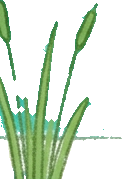
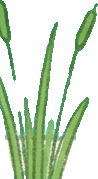
Avsnitt 004: vit klistermärkeskant (kor.kant) på det som är urklippt ur målade plattor: skylten, vassen, äppelträdet, åkern, blommorna och dammen; vassen urklippt utan vatten, vattenlinje och smulor

diff --git a/avsnitt/004-bussen-badar/scener/korscen-1/kor.js b/avsnitt/004-bussen-badar/scener/korscen-1/kor.js
@@ -5,7 +5,7 @@
 (() => {
 const { el, bild, lerp, mjuk, del, hopp, snurr, blink, vinka, BEAT, BEAT0 } = kit;
 const KLIPP = new URL('klipp/', document.currentScript.src).href, PX = 1080 / 768;
-const MATT = { skylt: [94, 271], vass: [122, 179], sjo: [682, 181] };   // klipp/ (klipp.py), i plattpixlar
+const MATT = { skylt: [94, 271], vass: [98, 179], sjo: [682, 181] };   // klipp/ (klipp.py), i plattpixlar
 const BUSS = { x: 900, y: 978 };                 // bussens fötter, som i 003
 const STORLEK = 1.2;                             // bussen i körbilden är 20 % större än i 003 (Sanna: "bus could be a bit bigger")
 // Bussen i körbilden, STORLEK gånger standardhöjden. Kompisarna i fönstren, dörren och hjulen följer med (allt räknas i bussens ruta).
@@ -39,9 +39,23 @@ function sol(parent = kit.lager.plate, fore = null) {
 // sek = sångtid, så att solen står likadant på båda sidor om klippen.
 const soler = [];
 const solDans = (sek, amp = 1) => soler.forEach(s => s.dansa(sek, 0.4 * amp));
-// En sak ur klipp/ med foten på y, k skalar. s.pa(x) sätter mitten i x.
+// Vit klistermärkeskant runt en sak som är urklippt ur en målad platta (de har ingen egen, till skillnad från vagen-saker),
+// så att allt vid vägen har samma kant (Sanna 2026-11-05). Ger g tillbaka.
+function kant(g) {
+  const svg = g.ownerSVGElement;
+  if (!svg.querySelector('#klisterkant')) svg.querySelector('defs').insertAdjacentHTML('beforeend', `
+    <filter id="klisterkant" x="-15%" y="-15%" width="130%" height="130%">
+      <feMorphology in="SourceAlpha" operator="dilate" radius="5" result="d"/>
+      <feGaussianBlur in="d" stdDeviation="0.7" result="b"/>
+      <feFlood flood-color="#fff"/><feComposite in2="b" operator="in" result="vit"/>
+      <feMerge><feMergeNode in="vit"/><feMergeNode in="SourceGraphic"/></feMerge>
+    </filter>`);
+  g.setAttribute('filter', 'url(#klisterkant)');
+  return g;
+}
+// En sak ur klipp/ med foten på y, k skalar, med vit kant. s.pa(x) sätter mitten i x.
 function sak(namn, y, k = 1, parent = saker) {
-  const [w, h] = MATT[namn].map(v => v * PX * k), g = el('g', {}, parent);
+  const [w, h] = MATT[namn].map(v => v * PX * k), g = kant(el('g', {}, parent));
   bild(KLIPP + namn + '.png', g, { width: w, height: h, preserveAspectRatio: 'none' });
   return { g, w, h, pa: x => g.setAttribute('transform', `translate(${x - w / 2} ${y - h})`) };
 }
@@ -245,6 +259,6 @@ function staende(kam, t, backe, fokus = []) {
   return [x, 540, 1];
 }
 
-window.kor = { BUSS, staende, STORLEK, nyBuss, narbild, V, MARK, PLATS, vag, sol, solDans, sak, korning, tutStreck, buss, dorrPunkt, stoppTider, stoppPlats, stank, handduk,
+window.kor = { BUSS, kant, staende, STORLEK, nyBuss, narbild, V, MARK, PLATS, vag, sol, solDans, sak, korning, tutStreck, buss, dorrPunkt, stoppTider, stoppPlats, stank, handduk,
   vanUte, vinkaStort, hand, HANDFARG, iFonster, fjaril, lat, latTider, forbiHus, get saker() { return saker; } };
 })();

diff --git a/avsnitt/004-bussen-badar/scener/korscen-1/index.html b/avsnitt/004-bussen-badar/scener/korscen-1/index.html
@@ -80,7 +80,8 @@ async function bygg() {
   kor.sol();
   aker = vag.aker(AKER.w, ...AKER.y);                 // bakom äppelträdet
   trad = vag.sak('tradet', 856);
-  kant = T.KANT.map(([tid, namn, h]) => ({ tid, s: namn === 'blommor' ? vag.sak('blommor', 846, h) : kit.vagsak(namn, saker, 830, h) }));
+  [aker.g, trad.g].forEach(kor.kant);                 // vit kant som sakerna vid vägen
+  kant = T.KANT.map(([tid, namn, h]) => ({ tid, s: namn === 'blommor' ? kantig(vag.sak('blommor', 846, h)) : kit.vagsak(namn, saker, 830, h) }));
   gupp = T.GUPP.map(([tid, k]) => ({ tid, k, g: el('path', { d: `M${-GUPP.b - 30} 8 C${-GUPP.b * 0.55} 8 ${-GUPP.b * 0.5} ${-GUPP.h} 0 ${-GUPP.h}`
     + ` C${GUPP.b * 0.5} ${-GUPP.h} ${GUPP.b * 0.55} 8 ${GUPP.b + 30} 8 Z`, fill: '#d9c7a3', stroke: '#9c8762', 'stroke-width': 7, 'stroke-linejoin': 'round' }, saker) }));
   plats = kor.stoppPlats('grodan');
@@ -142,6 +143,7 @@ function korIn(t) {
     titt: lerp(0.8, -0.2, mjuk(del(T.TITTA, T.TITTA + 0.3, t)) * (1 - mjuk(del(T.NARA0[1] - 0.5, T.NARA0[1] - 0.2, t)))) };
 }
 
+const kantig = s => (kor.kant(s.g), s);
 const tut = () => [...T.TUT0, T.TUT_BJORN, ...R.TUT, T.TUT_TILLBAKA, T.TUT];
 
 function rendTraktor(t, dist) {

diff --git a/avsnitt/004-bussen-badar/scener/korscen-3/index.html b/avsnitt/004-bussen-badar/scener/korscen-3/index.html
@@ -52,7 +52,7 @@ async function bygg() {
   const saker = kor.vag();
   kor.sol();                                          // samma sol som på vägen i körscen 1–2 (badplatsen har sin egen, på B:s plats)
   kant = T.KANT.map(([tid, namn, h]) => ({ tid, s: kit.vagsak(namn, saker, 830, h) }));
-  damm = vag.sak('dammen', 896);
+  damm = vag.sak('dammen', 896); kor.kant(damm.g);
   fart = vag.fartstreck(L.figurer);
   pella = await kit.figur('flygplanet-pella');
   buss = await kor.nyBuss();

diff --git a/avsnitt/004-bussen-badar/scener/korscen-2/index.html b/avsnitt/004-bussen-badar/scener/korscen-2/index.html
@@ -60,8 +60,8 @@ async function bygg() {
   const L = kit.duk('vagen');
   const saker = kor.vag();
   kor.sol();
-  damm = vag.sak('dammen', 896);
-  blommor = [vag.sak('blommor', 846)];
+  damm = vag.sak('dammen', 896); kor.kant(damm.g);
+  blommor = [vag.sak('blommor', 846)]; kor.kant(blommor[0].g);
   kant = T.KANT.map(([tid, namn, h]) => ({ tid, s: kit.vagsak(namn, saker, 830, h) }));
   plats = kor.stoppPlats('ankan');
   stank = kor.stank(saker);

diff --git a/avsnitt/004-bussen-badar/scener/korscen-1/klipp.py b/avsnitt/004-bussen-badar/scener/korscen-1/klipp.py
@@ -43,7 +43,13 @@ skylt.save(HAR / "klipp" / "skylt.png")
 vass = bit("dammen", (1250, 300, 1376, 610), [44, 190, 160])
 px = np.array(vass).astype(int)
 gron = (px[..., 1] > px[..., 2] + 20) | (px[..., 0] > px[..., 1] + 60)          # bara strån och blad, inte väggkanten och vattnet
+gron &= px[..., 2] < px[..., 0] + 45                                             # inte det turkosa vattnet runt stråna och vattenlinjen
 px[..., 3] *= gron
+nere = px.shape[0] // 2                                                           # vattenlinjen: tunna vågräta streck nertill bort, stråna står kvar
+px[nere:, :, 3] *= ndimage.binary_opening(px[nere:, :, 3] > 0, structure=np.ones((5, 1)))
+lab, _= ndimage.label(px[..., 3] > 0)                                            # smulor av vatten och väggkant bort (de får annars egen vit kant)
+storlek = np.bincount(lab.ravel()); storlek[0] = 0
+px[..., 3] *= np.isin(lab, np.nonzero(storlek > 150)[0])
 vass = Image.fromarray(px.astype("uint8"))
 vass.crop(vass.getbbox()).save(HAR / "klipp" / "vass.png")
 sjo = bit("badplatsen", (600, 455, 1376, 672), [247, 245, 241], biggest=True)
